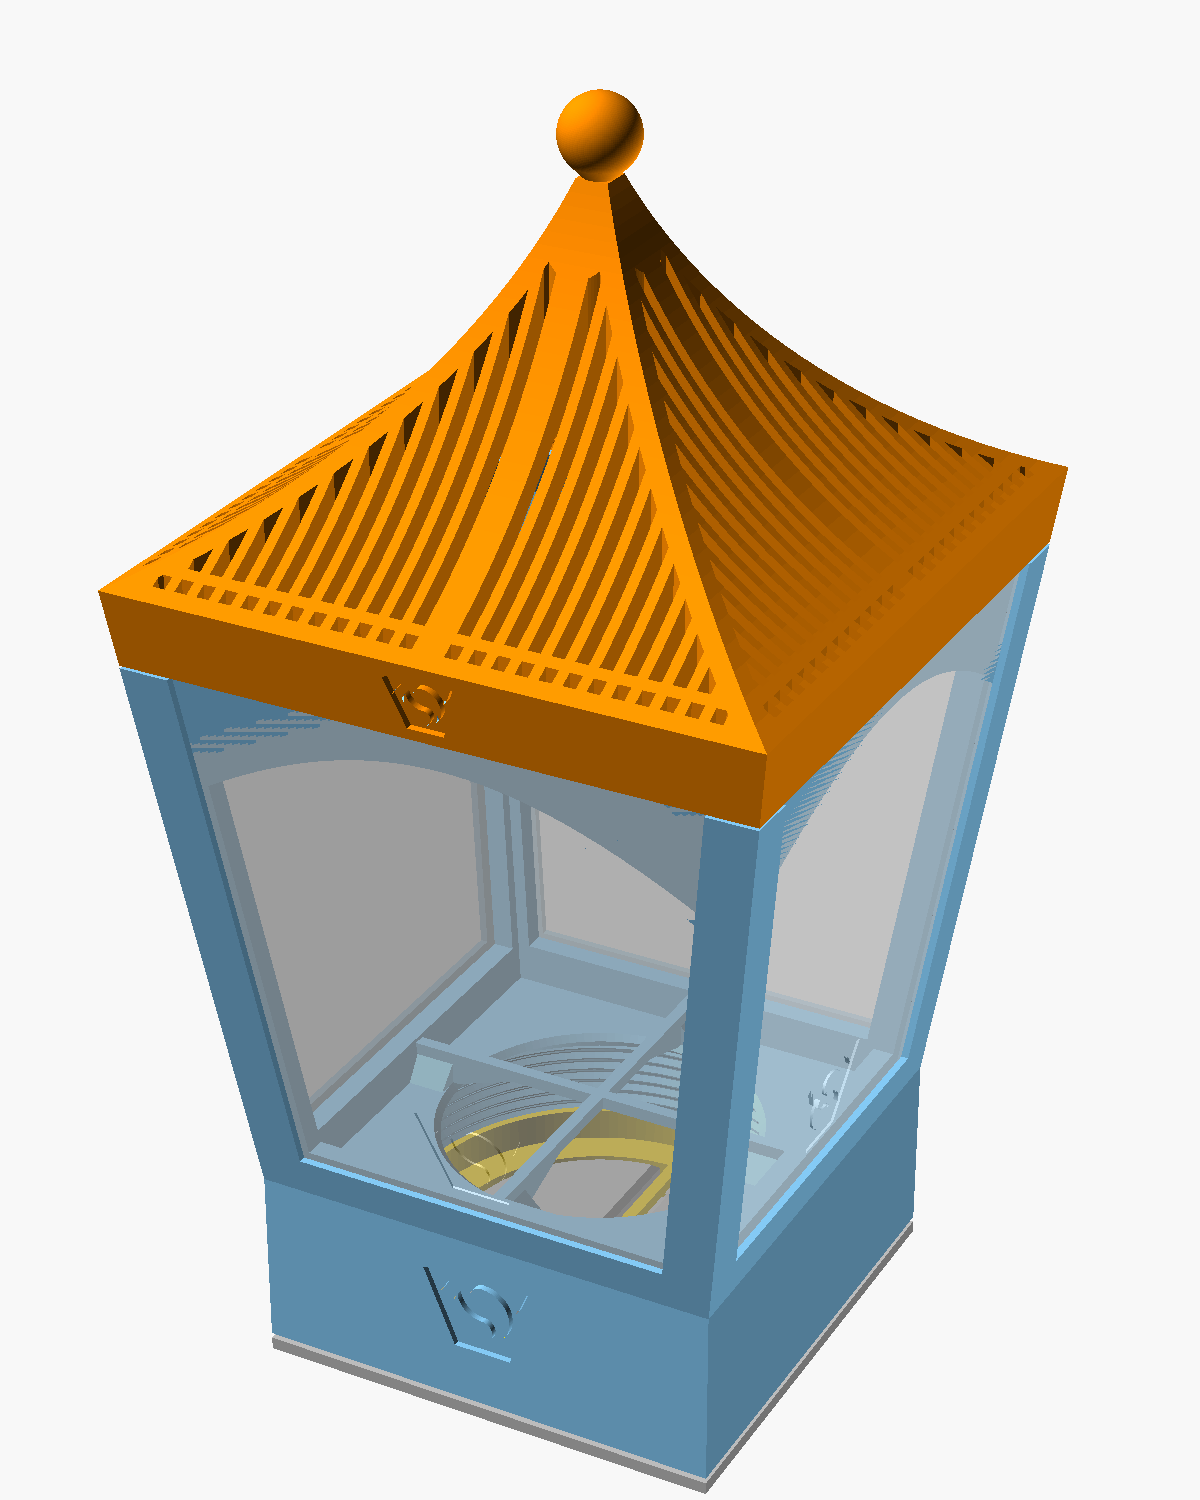
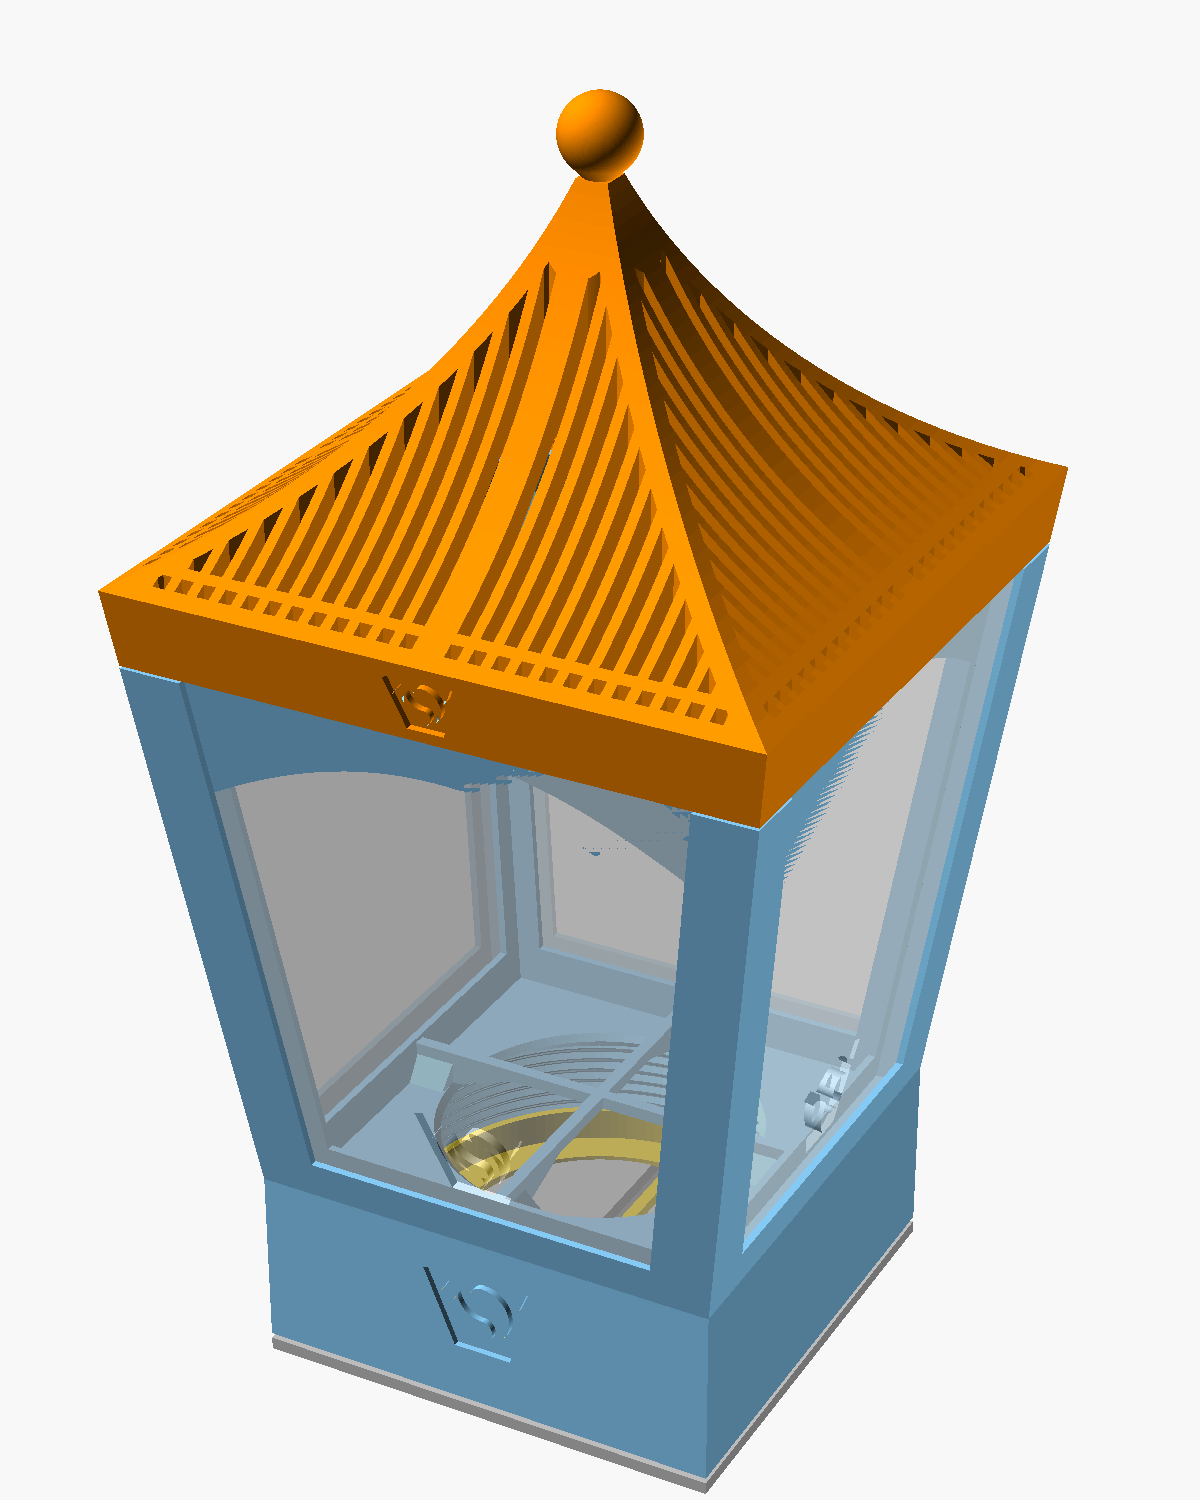
Lantern 3: default to 3 mm windows
window_thickness 3 (3.6 mm slits with clearance) and pillar_width 10, so
each pillar still holds two slits with the 3 mm overlap. Windows and roof
still clear the frame.

diff --git a/projects/RGBW_pucklight_lantern3/readme.md b/projects/RGBW_pucklight_lantern3/readme.md
@@ -19,9 +19,9 @@ pillars.
   up to a ball. It has the female thread inside the band.
 - `screwin`: the holder's bottom screw. It holds the puck in the frame.
 - `clickbase`: the holder's click base.
-- `window` (4x): a flat 0.8 mm sheet, 65.7 mm wide at the bottom, 89.3 mm at
-  the top and 89.5 mm long. Print it in a translucent filament, or cut film
-  or paper to this shape.
+- `window` (4x): a flat 3 mm plate, 61.7 mm wide at the bottom, 85.3 mm at
+  the top and 89.5 mm long. Print it in a translucent filament, or cut it
+  from 3 mm acrylic.
 
 `part` shows the assembly on the click base, the assembly cut in half, all
 parts, or one part. The lantern is 199 mm high on the click base.
@@ -45,23 +45,24 @@ the light.
 
 ## windows and slits
 
-The slits are 1.4 mm wide (`window_thickness` plus 0.3 mm `slot_clearance`
+The slits are 3.6 mm wide (`window_thickness` plus 0.3 mm `slot_clearance`
 on each side), behind a 1.2 mm lip (`slot_lip`), and reach 3 mm
-(`window_overlap`) into each pillar. They run from 1 mm above the holder up
+(`window_overlap`) into each pillar. The pillars are 10 mm wide
+(`pillar_width`) to hold two slits. They run from 1 mm above the holder up
 through the frame's top. A window slides in from above and stands on the
 slits' floor in the rail; its top ends 0.3 mm under the frame's top, and
 the roof covers the slits.
 
 Between the pillars, at the top, there is no lip: the window lies in front
-of the band. For film or paper, set `window_thickness` to the sheet's
-thickness and the slits follow.
+of the band. For thinner windows, such as film or paper, set
+`window_thickness` to their thickness and the slits follow.
 
 ## the frame's top
 
 The band is the frame's top behind the slits. Its underside is a 45
 degree funnel that narrows to the neck's 82.4 mm bore, so it prints
-without support. Behind each window the funnel shows as an arch, 6 mm deep
-in the middle and about 22 mm at the pillars. In the corners it becomes 45
+without support. Behind each window the funnel shows as an arch, 4 mm deep
+in the middle and about 19 mm at the pillars. In the corners it becomes 45
 degree gussets.
 
 The neck has the roof's thread outside: 88 mm (`neck_d`), 6 mm high, 2 mm
@@ -105,8 +106,8 @@ The VeryOS logo is engraved in every part:
 - screwin and clickbase: the holder's.
 - roof: 12 mm wide (`roof_logo_width`), 1 mm deep, in the front of the
   band, following its lean.
-- window: 20 mm wide (`window_logo_width`), half through the window, on its
-  outside, 3 mm above the rail. It shows brighter when the light is on.
+- window: 20 mm wide (`window_logo_width`), half through the window (1.5
+  mm), on its outside, 3 mm above the rail. It shows brighter when the light is on.
 
 ## printing
 
@@ -116,7 +117,8 @@ flat with the logo up. Nothing needs support: the frame's funnel, the
 roof's cone and the ball's cone are 45 degrees, the threads have 45 degree
 flanks, the pillars lean out 7.6 degrees, and the holder's ribs bridge its
 window as in the holder. For the windows, a translucent or white filament
-at 0.8 mm (4 layers of 0.2 mm) diffuses the light.
+diffuses the light; at 3 mm it lets less light through than a thinner
+window.
 
 ## assembly
 
@@ -138,7 +140,9 @@ at 0.8 mm (4 layers of 0.2 mm) diffuses the light.
   around.
 - the roof is hollow in a 45 degree cone instead of a 1.8 mm shell, whose
   underside would overhang more than 60 degrees at the eaves.
-- the slits are 1.4 mm wide instead of 3 mm and follow `window_thickness`.
+- the slits are 3.6 mm wide instead of 3 mm: a 3 mm window and 0.3 mm
+  clearance on each side. They follow `window_thickness`.
+- the pillars are 10 mm wide, to hold two such slits.
 - the roof lines up through `roof_seat_gap` instead of the fine-tuning ring.
 - the ball stands on a 45 degree cone instead of a rounded neck.
 - the holder (top part, screw and click base) is the V2 holder project's,
